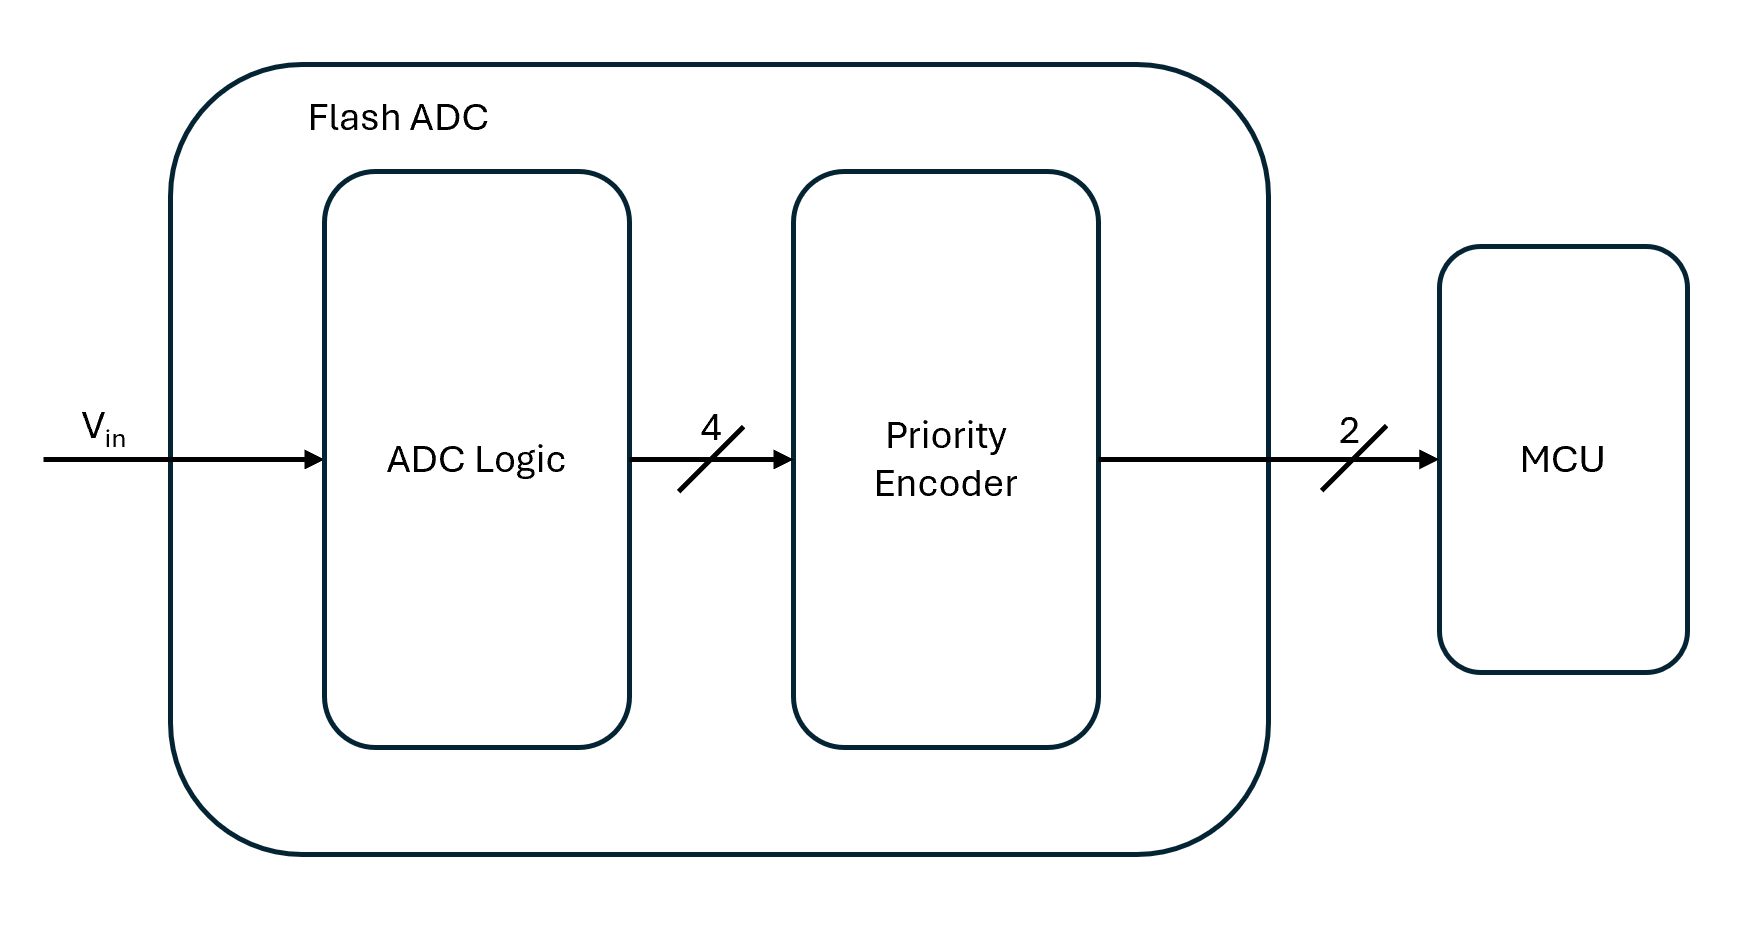
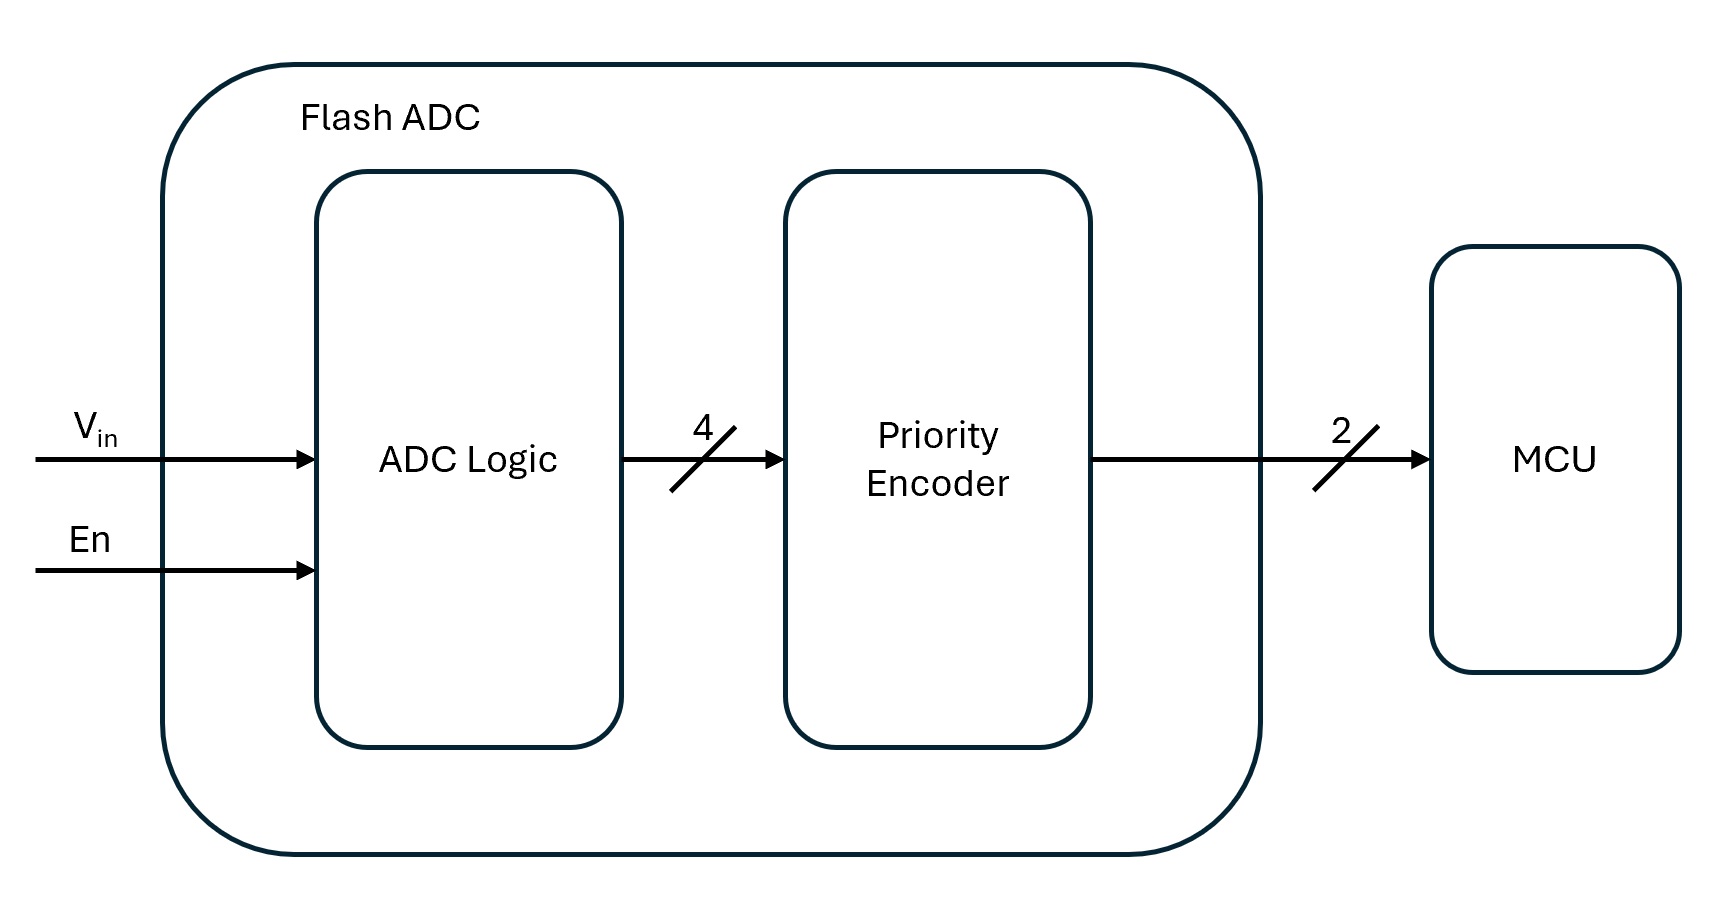
Added latch to the 2-bit Flash ADC
Updated figure in README and added 74LS75 to hold the output while value is being read. Enable pin active high and needs to be pulled low to hold value

diff --git a/ADC_Design/README.md b/ADC_Design/README.md
@@ -41,7 +41,7 @@ Arduino Uno to determine the analog voltage. Below is the architecture of the 2-
 
 ![architecture_of_2-bit_Flash_ADC](README_IMAGES/architecture_of_2-bit_Flash_ADC.png)
 
-A Flash ADC will use a resistive ladder, comparators and a Priority Encoder to read the analog voltage and output a weighted binary value. The ADC Logic will have a resistor ladder used as the voltage divider. 
+A Flash ADC will use a resistive ladder, comparators and a Priority Encoder to read the analog voltage and output a weighted binary value. An enable pin will be active high nominally. Once the device reading in the weighted binary value is ready, it will set the enable pin low to hold the current value using a latch. The ADC Logic will have a resistor ladder used as the voltage divider. 
 Each node on the ladder will be the input to the non-inverting side of an operational amplifier. Although a comparator IC could be used here, I do not plan to use the ADC in a high frequency design. Therefore 
 the LM358N Op-Amp can substitue the need for a comparator. The Priority Encoder will take the unweighted binary value from the LM358N and use combinational logic to output a weighted binary value for the Arduino 
 Uno to read in. For a 2-bit ADC, the resolution is one part in 3 (2<sup>2</sup>-1) which is not very useful. The Arduino Uno has a 10-bit ADC which has 1023 levels. Although the internal will need 2<sup>n</sup>-bits between the ADC Logic and the Priority Encoder, we reduce the number of lines out back to n-bits, in our case 2-bits.
@@ -65,7 +65,8 @@ Given the design of the Priority Encoder, we will next use this design alongside
 
 
 ### Software flow chart or algorithms
-Not at stage of product where Arduino has been implemented.
+<!-- Not at stage of product where Arduino has been implemented. !>> -->
+
 
 ### Debugging
 * LM358 is not a Rail-to=Rail IC and max input is Vcc-1.5V

diff --git a/README.md b/README.md
@@ -3,7 +3,6 @@
 In this repository you will find my implementation of an ADC and DAC. After preliminary designs, breadboard prototypes are tested on a breakboard then to a PCB created within Altium. The ADC will be implemented in 2 different designs. First, creating a Flash ADC with 2-bit resolution. After testing, the design will be upgraded to 4-bit resolution and finalized onto a PCB. The second implementation will be the SAR ADC which will move through the same objectives as the Flash ADC. The DAC will be worked on between the two ADC designs as the SAR ADC uses a DAC to determine the analog voltage level. 
 
 ![2-bit_Flash_ADC_Breadboard](ADC_Design/README_IMAGES/2-bit_Flash_ADC_Breadboard.jpg)
-[2-bit Flash ADC Breadboard](https://youtu.be/c9W4OWWYJ1M)
 
 
 ## Table of Contents
@@ -33,3 +32,6 @@ In this repository you will find my implementation of an ADC and DAC. After prel
 - [ ] 4-bit ADC 
     - [ ] Altium Schematic
     - [ ] Final PCB Product
+
+## Demos
+[2-bit Flash ADC Breadboard Demo](https://youtu.be/c9W4OWWYJ1M)
